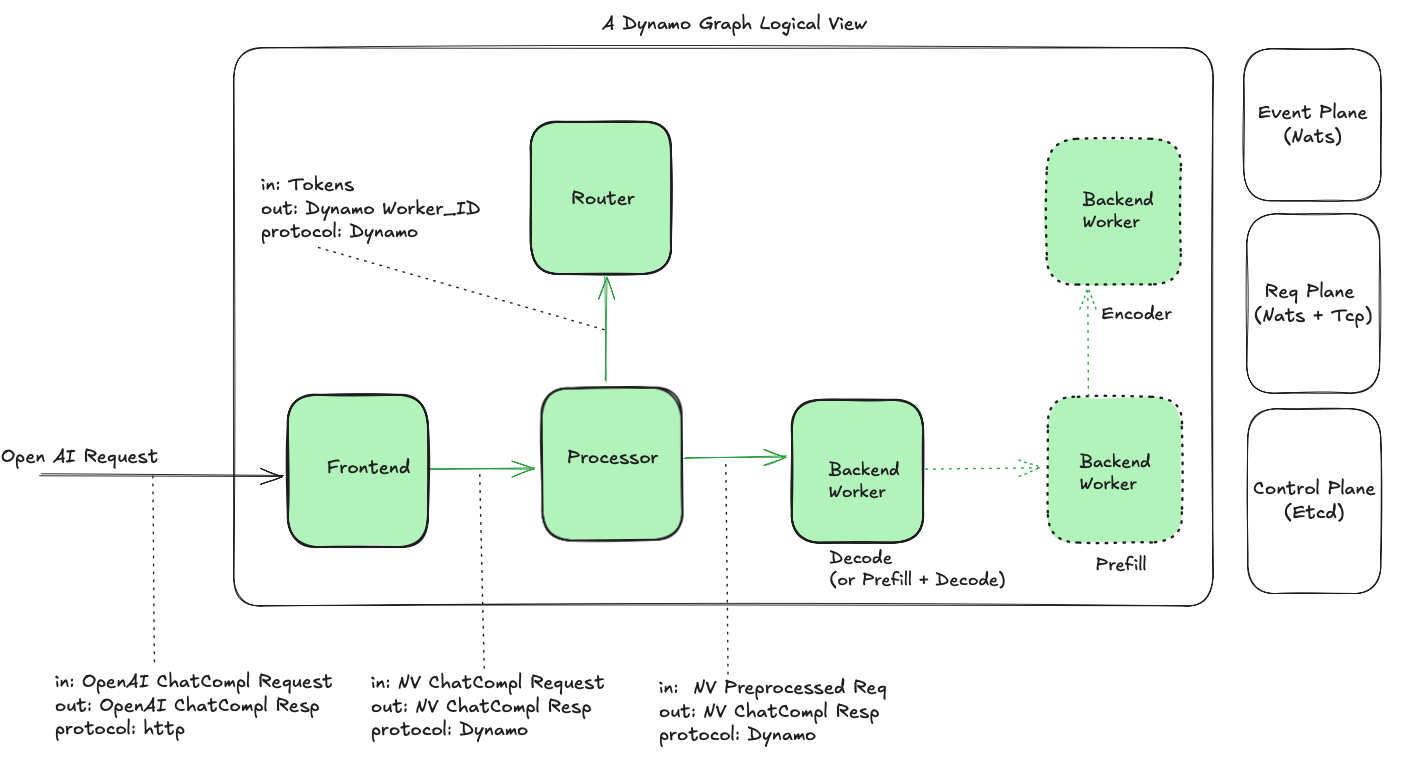
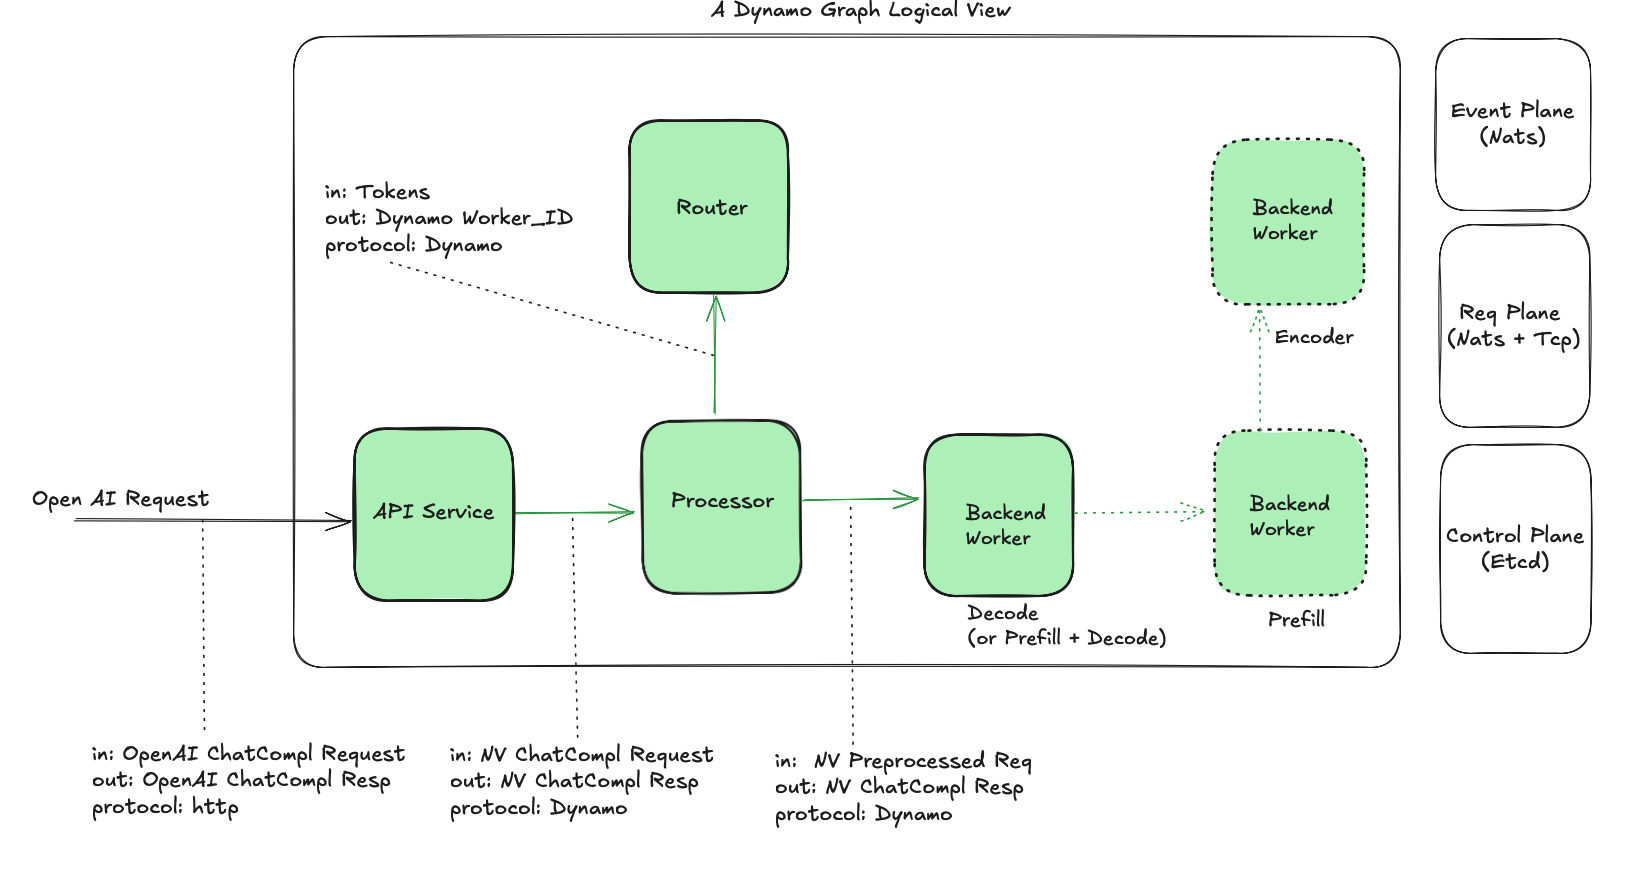
udpate

diff --git a/0001-TBD-inference-gw-integration/0001-TBD-inference-gw-integration.md b/0001-TBD-inference-gw-integration/0001-TBD-inference-gw-integration.md
@@ -26,7 +26,7 @@ This proposal outlines the integration of [Dynamo](https://docs.nvidia.com/dynam
 Dynamo is a modular inference system with distinct logical components:
 
 **Frontend** runs these 3 components in a single process. It doesn't require accelerator resources.
-1. **HTTP Fronted**: The entry point for OpenAI-compatible requests
+1. **API Service**: The entry point for OpenAI-compatible requests
 
 2. **Processor**: Handles tokenization and preprocessing
 
